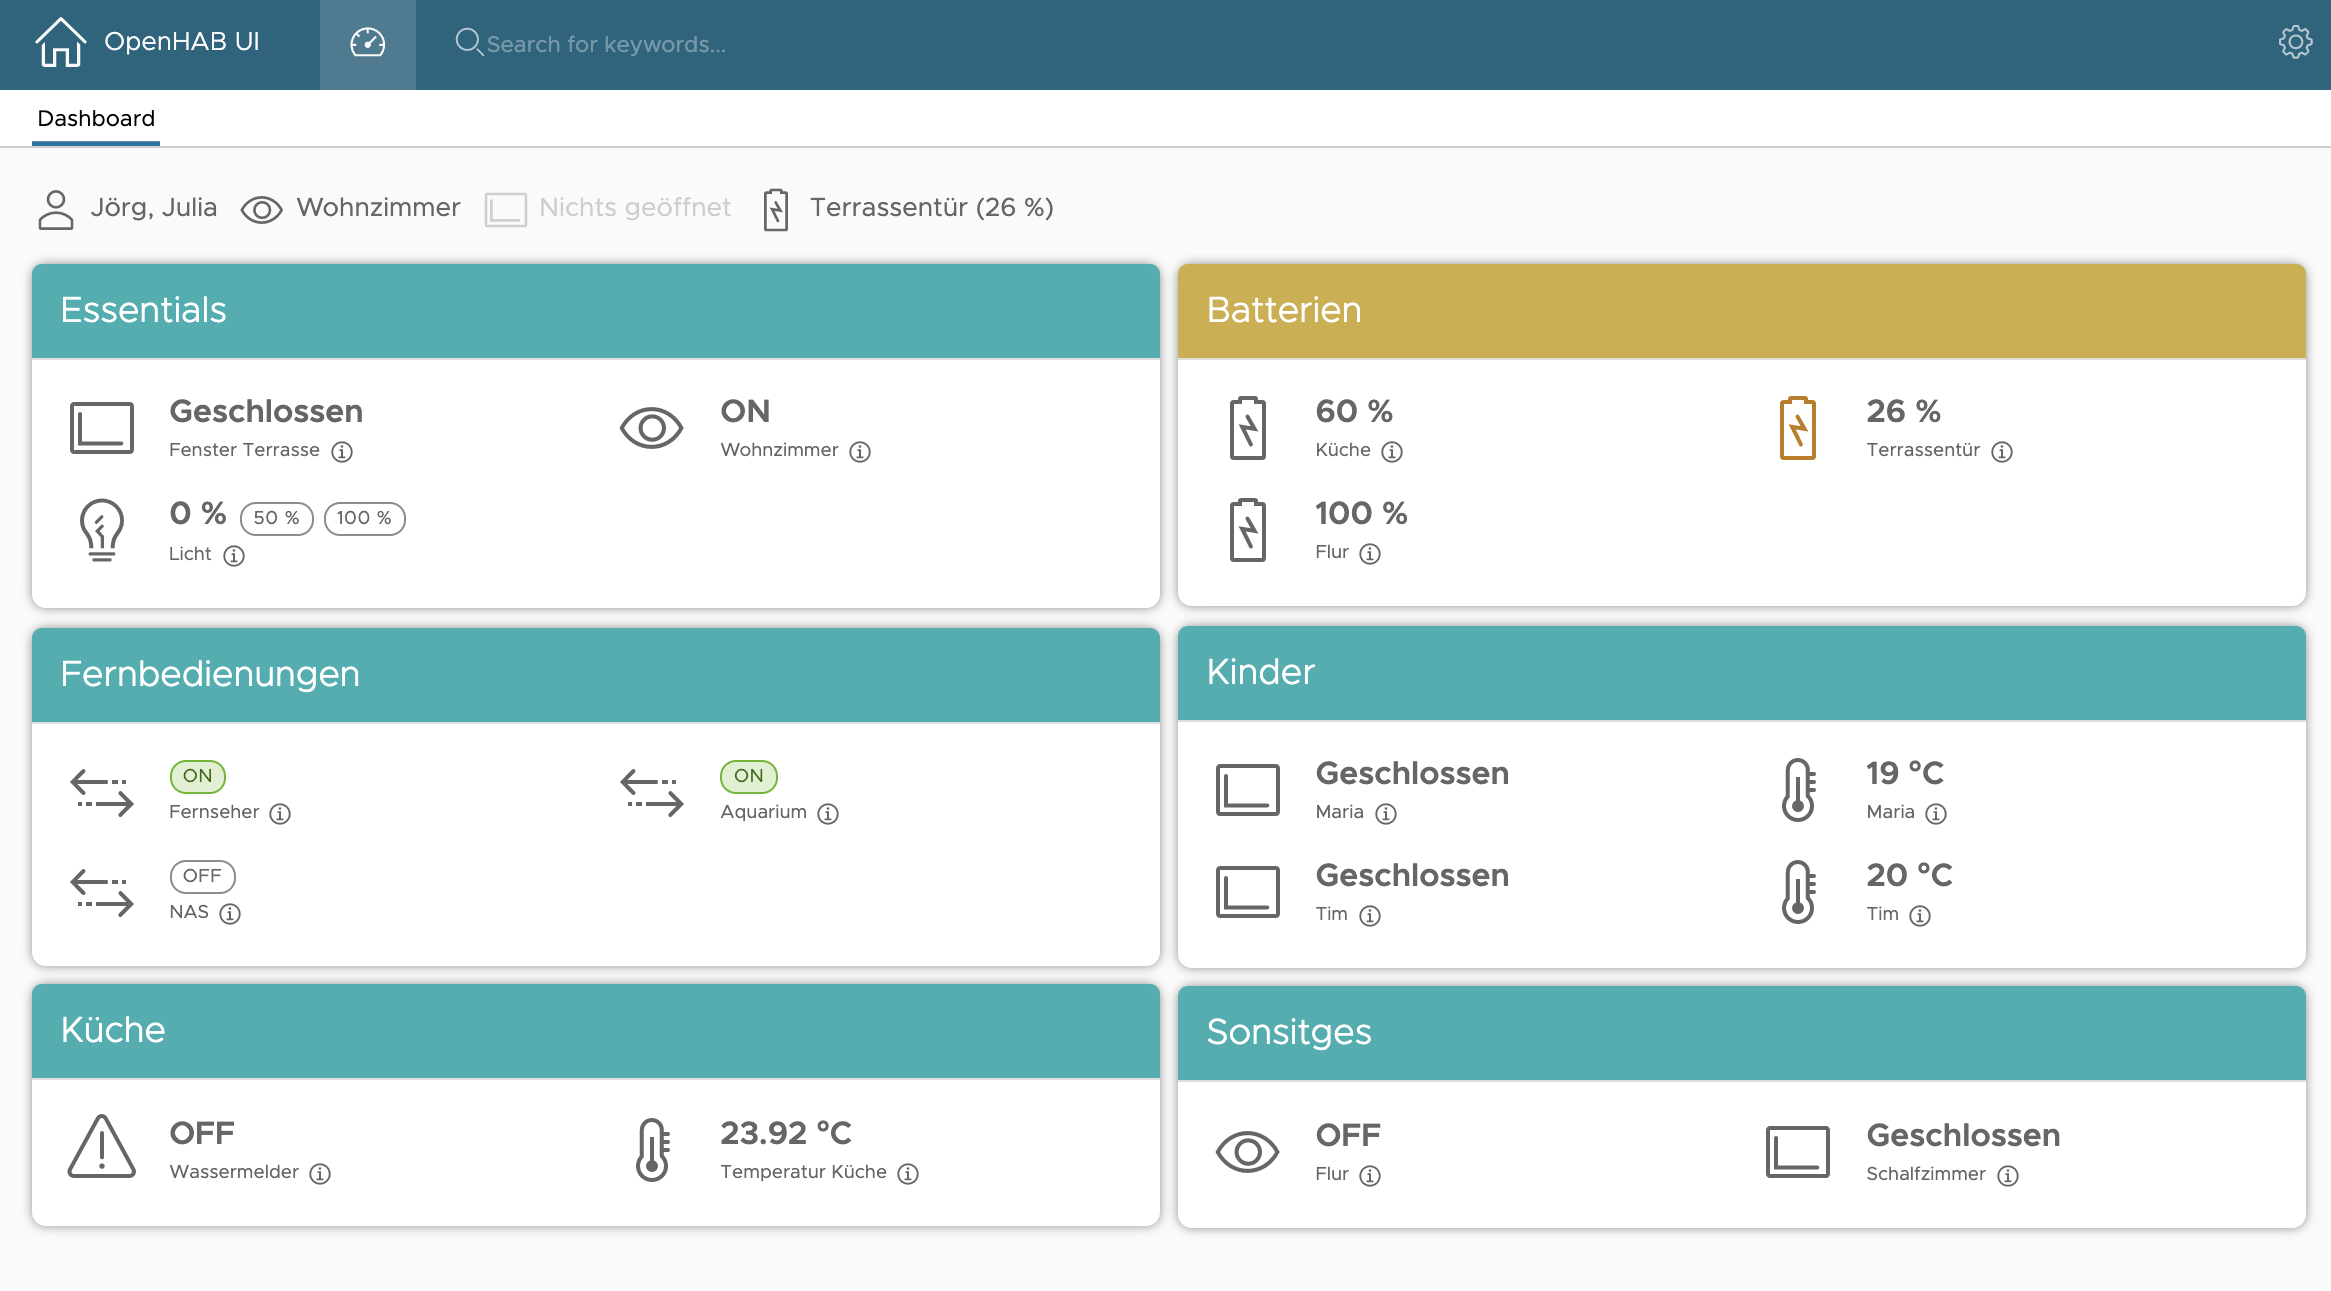
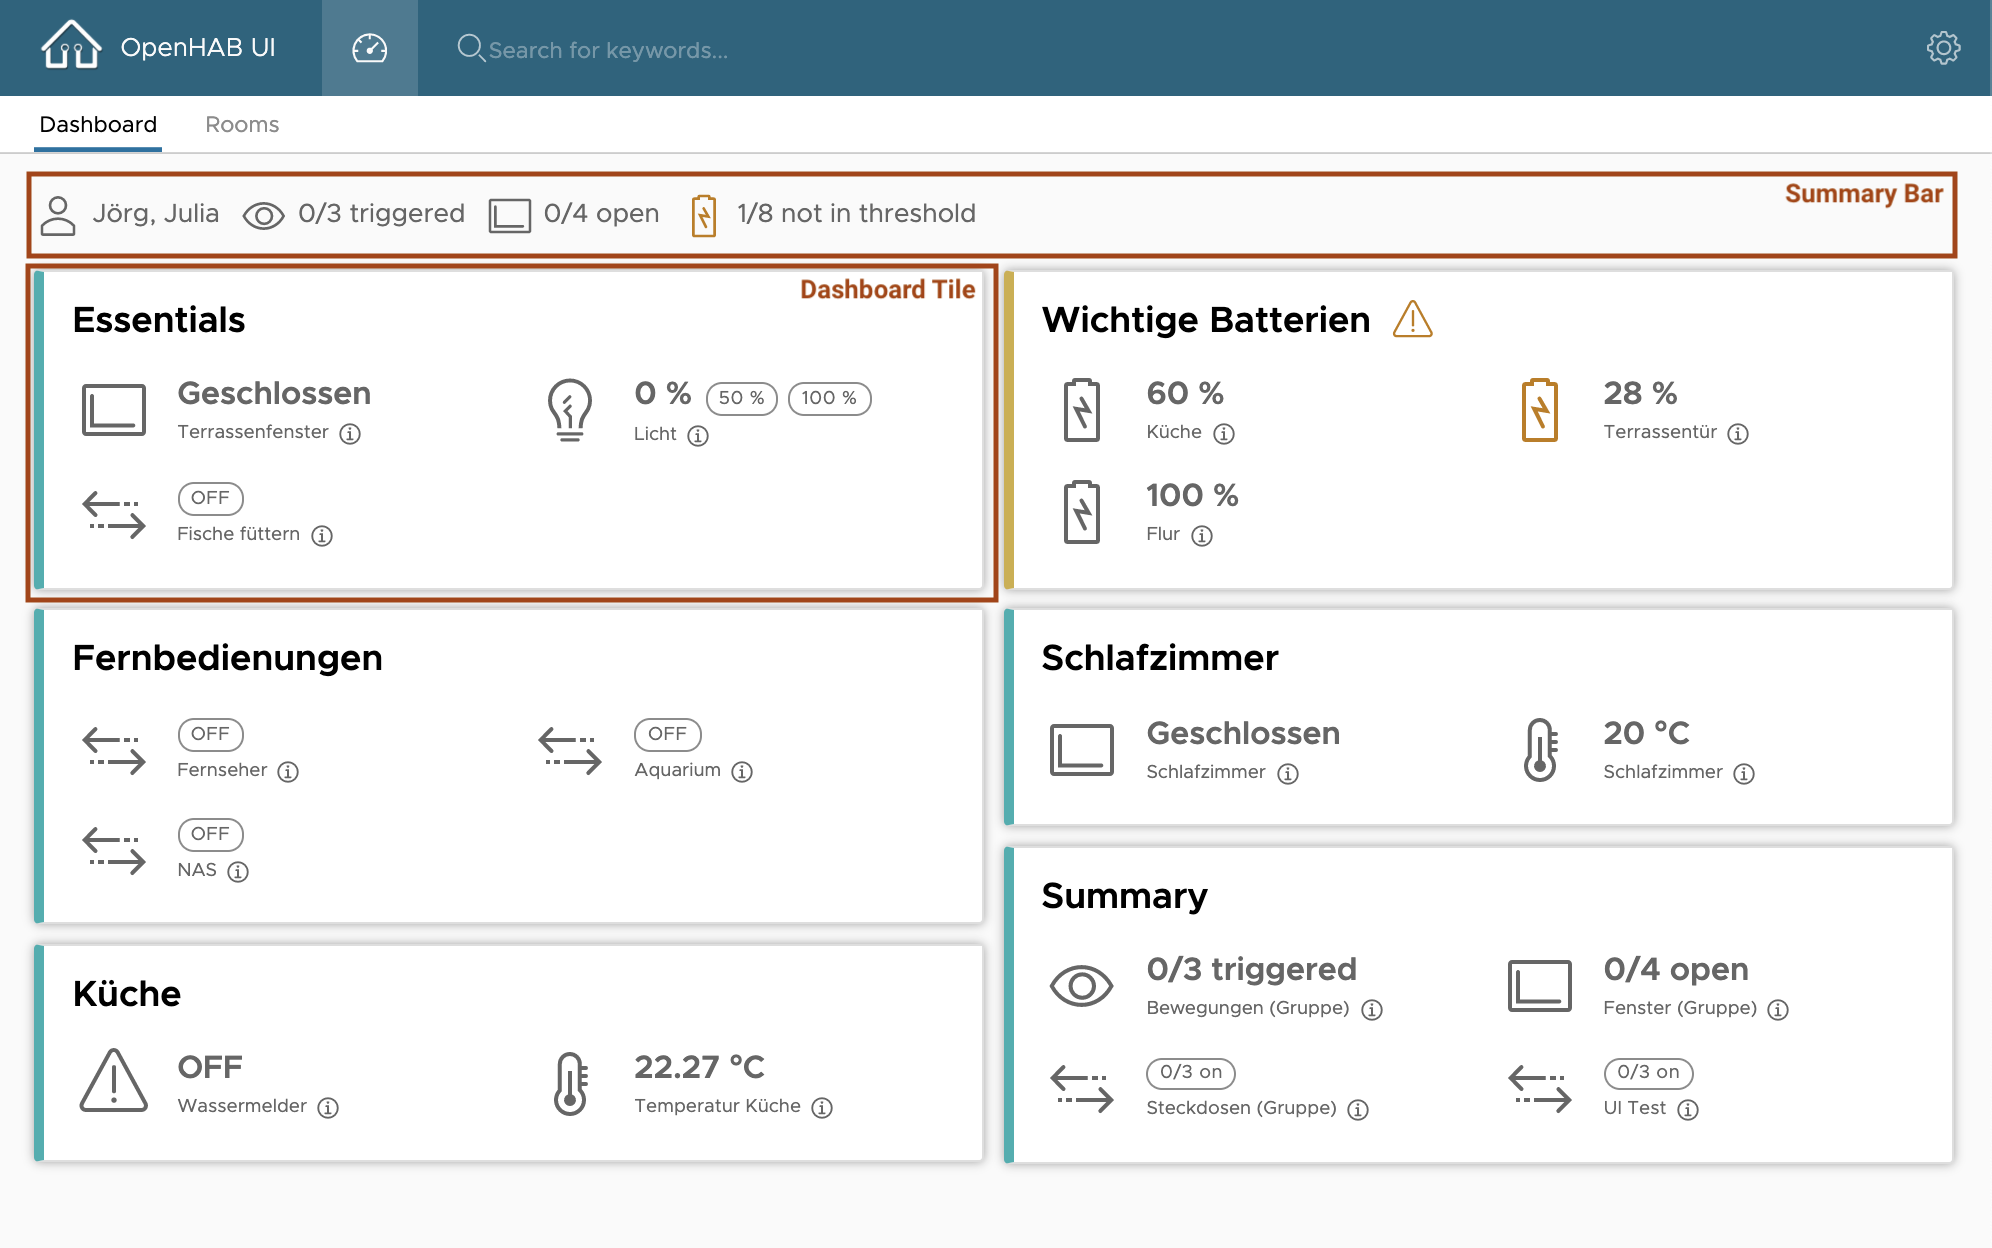
improved documentation

diff --git a/README.md b/README.md
@@ -1,69 +1,103 @@
 # Openhab UI
 
-A smart and lean Angular UI for your OpenHab Server (locally) using OpenHab REST API.
+A simple and lean Angular UI for giving easy control and overview about your OpenHab Server. The tool operates using OpenHab REST API. I developed it for local usage in same network as OpenHab Server.
 
 [[_TOC_]]
 
-## Setup
+## Technology
+
+---
+
+- Angular 9
+- RxJS
+- UI: Clarity 3
 
 ### Supported Browsers
 
 - Safari >= 13
 - Chrome >= 80
 
+## Setup
+
+---
+
 ### OpenHab
 
-**TODO:** Add the line `org.eclipse.smarthome.cors:enable=true` in the file *services/runtime.cfg*
+* Pre-Requisite: Add the line `org.eclipse.smarthome.cors:enable=true` in the file *services/runtime.cfg*
 
-### Run locally in dev mode
+### How to run the UI locally in dev mode
 
 1. Install angular cli (`npm install -g @angular/cli`)
 2. clone this git repo (`git clone https://github.com/jh1777/OpenHabUI.git`)
-3. run `npm i` in cloned folder
+3. run `npm i` in cloned folder to install required packages
 4. start app using `ng serve` or use provided script `start-on-server.sh` (takes care of host and customizes port to 4222)
 
-## Components
+## UI Components
 
-The UI has basically two parts, one dashboard page and room pages (depending on config).
+---
 
 The whole design is based on [Clarity UI](https://www.clarity.design).
 
 ### Dashboard
 
----
+The dashboard is the main entrypoint when the UI is started. It ist also the main intention for which this UI was developed. 
 
-The dashboard is the main entrypoint when the UI is started
+It shows a configurable summary of items/groups you are interested in. If an item can be modified (e.g. switch, light) this is possible in the dashboard directly. This also applies to groups. The dashboard also provides a summary bar on top for a quick status overview.
 
-This shows a configurable summary overview of all items you want to see there. If they can be modified this is also possible in the dashboard directly. The dashboard also provides a summary bar on top for a quick status overview.
-
-Preview screenshot of a dashboard:
+Preview screenshot of a dashboard (including red marked UI components):
 
 ![screenshot-dashboard](screenshot-dashboard.png)
 
 ### Room Pages
 
-tbd
+tbd in later versions
 
 ## How to configure
 
-**The `config.json` file is the main configuration of this App!**
-
-### URL
-
 ---
 
-`openHabUrl`key is used to set the OpenHAB API URL.
+**The `config.json` file is the main configuration of this App!** Everything what you want to see in the UI you need to configure there!
+
+> An example `config.json` is contained in the repo. Please carefully take a look at that!
+
+### Structure
+
+```json
+{
+    "openHabUrl": "http://<ip>:<port>/rest",
+    "itemStateHistory": 10,
+    "showOnlyActivityInSummary": true,
+    "dashboardTiles": [],
+  	"rooms": []
+}
+```
+
+**openHabUrl**: `openHabUrl`  is used to set the OpenHAB API URL of your OpenHab server.
 
 The **OpenHab API URL** must be configured like `http://localhost:8080/rest` (for example). Please adapt according to your hostname and port.
 > Don't forget to setup OpenHab like described above in Setup -> OpenHab section.
+
+**itemStateHisory**: In the detail dialog you can see the past states of an item. How many can be set here. 10 is default. Please keep in mind that currently only the last 24 hrs are queried at maximum! Also this may have impact on the UI since it is not designed to view lage tables at this point.
+
+**showOnlyActivityInSummary**: This impacts of items will be shown in summary header.
+
+Example of **showOnlyActivityInSummary** = true (_no movement item currently triggered!_):
+
+![image-20200405231229338](/Users/joerg/Development/angular/openhab-ui/doc.summary.activeonly.png)
+
+Example of **showOnlyActivityInSummary** = false (_no movement item currently triggered!_):
+
+![image-20200405231525354](/Users/joerg/Development/angular/openhab-ui/doc.summary.activenotonly.png)
+
+As you can see this also shows non-triggered items in the summary. You may modify the placeholder stings on your own in file `src/app/services/serviceTools/summaryTools.ts`. They are static by *category*.
 
 ### Understanding the `category`
 
 ---
 
-As a fundamental structural property, the `category` of each item you define in config is responsible for its layout, icon and UI representation.
+As a **fundamental structural property**, the `category` of each item or group you define in `config.json` is responsible for its layout, icon, behavior and UI representation.
 
-Teh following categories are defined:
+**The following categories are currently defined:**
 
 - temperature
   - **Icon**: <img src="./src/assets/icons/thermometer-line.svg" alt="thermometer-line" style="zoom:60%;" />
@@ -110,36 +144,83 @@ Teh following categories are defined:
   - **Unit**: N/A
   - **Editable**: No
   - **Usage**: presence sensor
+- heating (TBD)
+  - **Icon**: <img src="./src/assets/icons/flame-line.svg" alt="flame-line" style="zoom:60%;" />
+  - **Unit**: %
+  - **Editable**: Yes
+  - **Usage**: heating / thermostat
+- rollershutter (TBD)
+  - **Icon**: <img src="./src/assets/icons/portrait-line.svg" alt="portrait-line" style="zoom:60%;" />
+  - **Unit**: %
+  - **Editable**: Yes
+  - **Usage**: rollershutter
 
-### `config.json` Sections
+###  Section `dashboardTiles`
 
----
-
-There are three main sections in `config.json`.
-
-#### dashboardTiles
-
-This section contains all _tile_ definitions for the dashboard. Each tile itself has a _title_ and some _items_ in it. You can define each item like you want it to be. 
+This section contains all _tile_ definitions for the dashboard! Each tile itself has a _title_ and some _items_ in it. You can define each item like you want it to be. 
 
 Each single _item_ is defined as:
 
 ```json
 {
-    "name": "<openhab item name>",
-    "displayName": "<label in UI>",
-    "category": "<category - see below>",
+    "name": "<openhab item or group name>", // mandatory and must exactly match openhab
+    "displayName": "<label in UI>", // mandatory
+    "category": "<category>", // mandatory, see documentation about possible categories
     "unit": "<item unit like °C, % etc.>", // optional
-    "warningThreshold": 25, // optional: if set, state will be compared and set to isWarning
-    "warningThresholdType": "gt", // optional: if warningThreshold is set, this should be also set to 'gt' (greater or equal than) or 'lt' (lower or equal than) to be able to determine warning state
+    "warningThreshold": 25, // optional: if set, state will be compared and set to isWarning (only for OH items, not groups)
+    "warningThresholdType": "gt", // mandatory, if warningThreshold is set: this should be also set to 'gt' (greater or equal than) or 'lt' (lower or equal than) to be able to determine warning state (only for OH items, not groups)
     "showInSummary": true,  // optional: If you want to include this item in the summary bar (default is false)
-    "showOnlyInSummary": false  // optional: If you want to include this item ONLY in the summary bar and don't show in a tile (default is false)
+    "showOnlyInSummary": false,  // optional: If you want to include this item ONLY in the summary bar and don't show in a tile (default is false)
+  	"isGroup": true // optional: is this entry is an openhab group? (default = false)
 }
 ```
 
-#### rooms
+### Section `rooms`
 
 Define `groupName` and `displayName` of groups you want to see on a separate page in the UI. 
-One page for each room will be shown.
+One page for each room will be shown. **This feature will be implemented later!**
+
+## Tiles
+
+---
+
+The items configured in `config.json` section `dashboardTiles` will be parsed and each will be queried using OpenHab REST API GET request. This also applies for the groups. 
+
+The way how the UI shows the data is different between groups and single items.
+
+### Single Item
+
+A **single item** is also one item in OpenHab. The category in config defines how this is shown because REST API gives no constant information about this across all manufactors etc. The only interesting values are `state` and if present also the `transformedState` which are taken from the API response.
+
+The **label** of an item will be taken from the config without taking any OpenHab item properties into account. 
+
+If it is a **numeric state** and in config there is a `warningThreshold` defined (desinged for Battery State) it will be compared against that threshold. You may also specify `warningThresholdType` if the direction to check is different. Anyway, by design this is currently a 0 - 100 scale.
+
+If you specify a **unit**, this will be shown after the original state. So if you have battery state 56 and unit % the UI will concat both. This makes the UI somehow more flexible against custom item definitions for OpenHab.
+
+### Group Item
+
+...
+
+## Summary Bar
+
+---
+
+### Single Item
+
+The **summary** is a simple bar at the top of the dashboard to quickly get an overview. If the item should be shown there you may set `showInSummary` to true. The summary is grouped by category. All _item labels_ with same `category` will be concatenated (using , <comma>) in the summary bar. 
+
+There is a defined state for each `category` that is used to determine when a certain item is "triggered". By default only triggered items are shown. Please refer to config.json documentation in this file!
+
+**Example**: If you have 3 windows with labels "John", "Mike", "Tom". Now only windows of Tom and Mike are OPEN, which is the "triggered"-state for `category` = contact, the summary will show: <img src="./src/assets/icons/axis-chart-line.svg" alt="axis-chart-line" style="zoom:60%;" /> Tom, Mike
+
+...
+
+### Group Item
+
+...
+
+
 
 ## Reference
 
